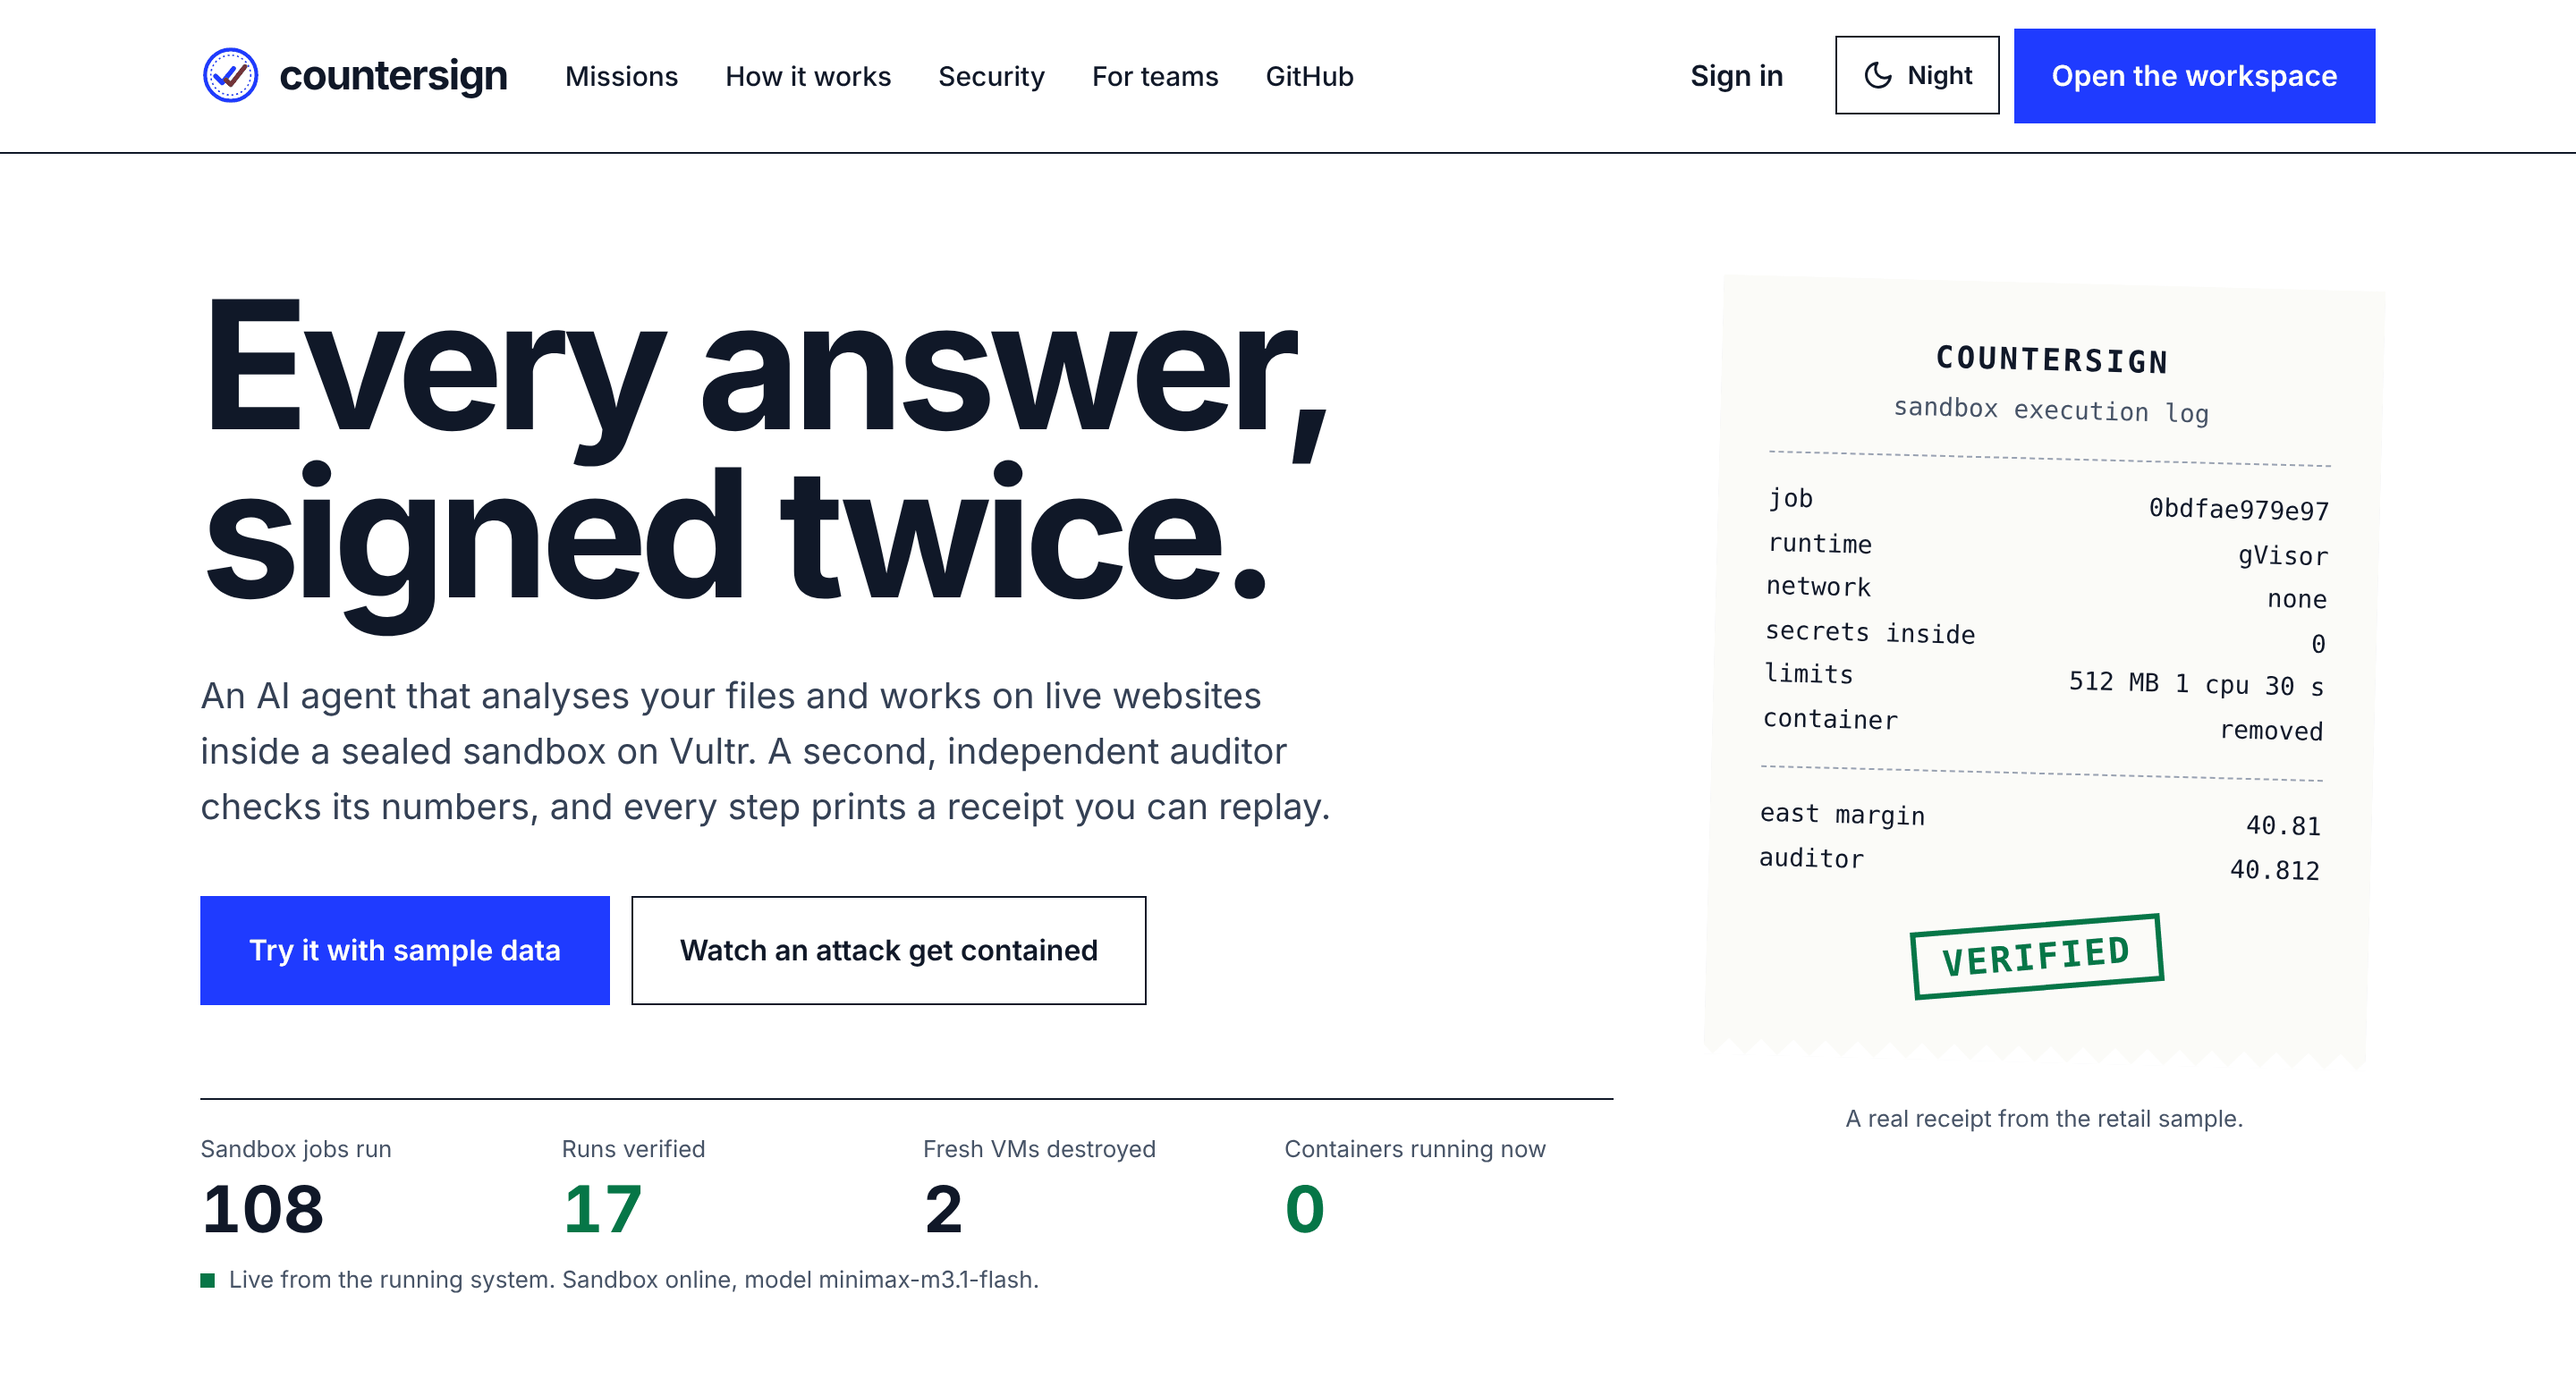
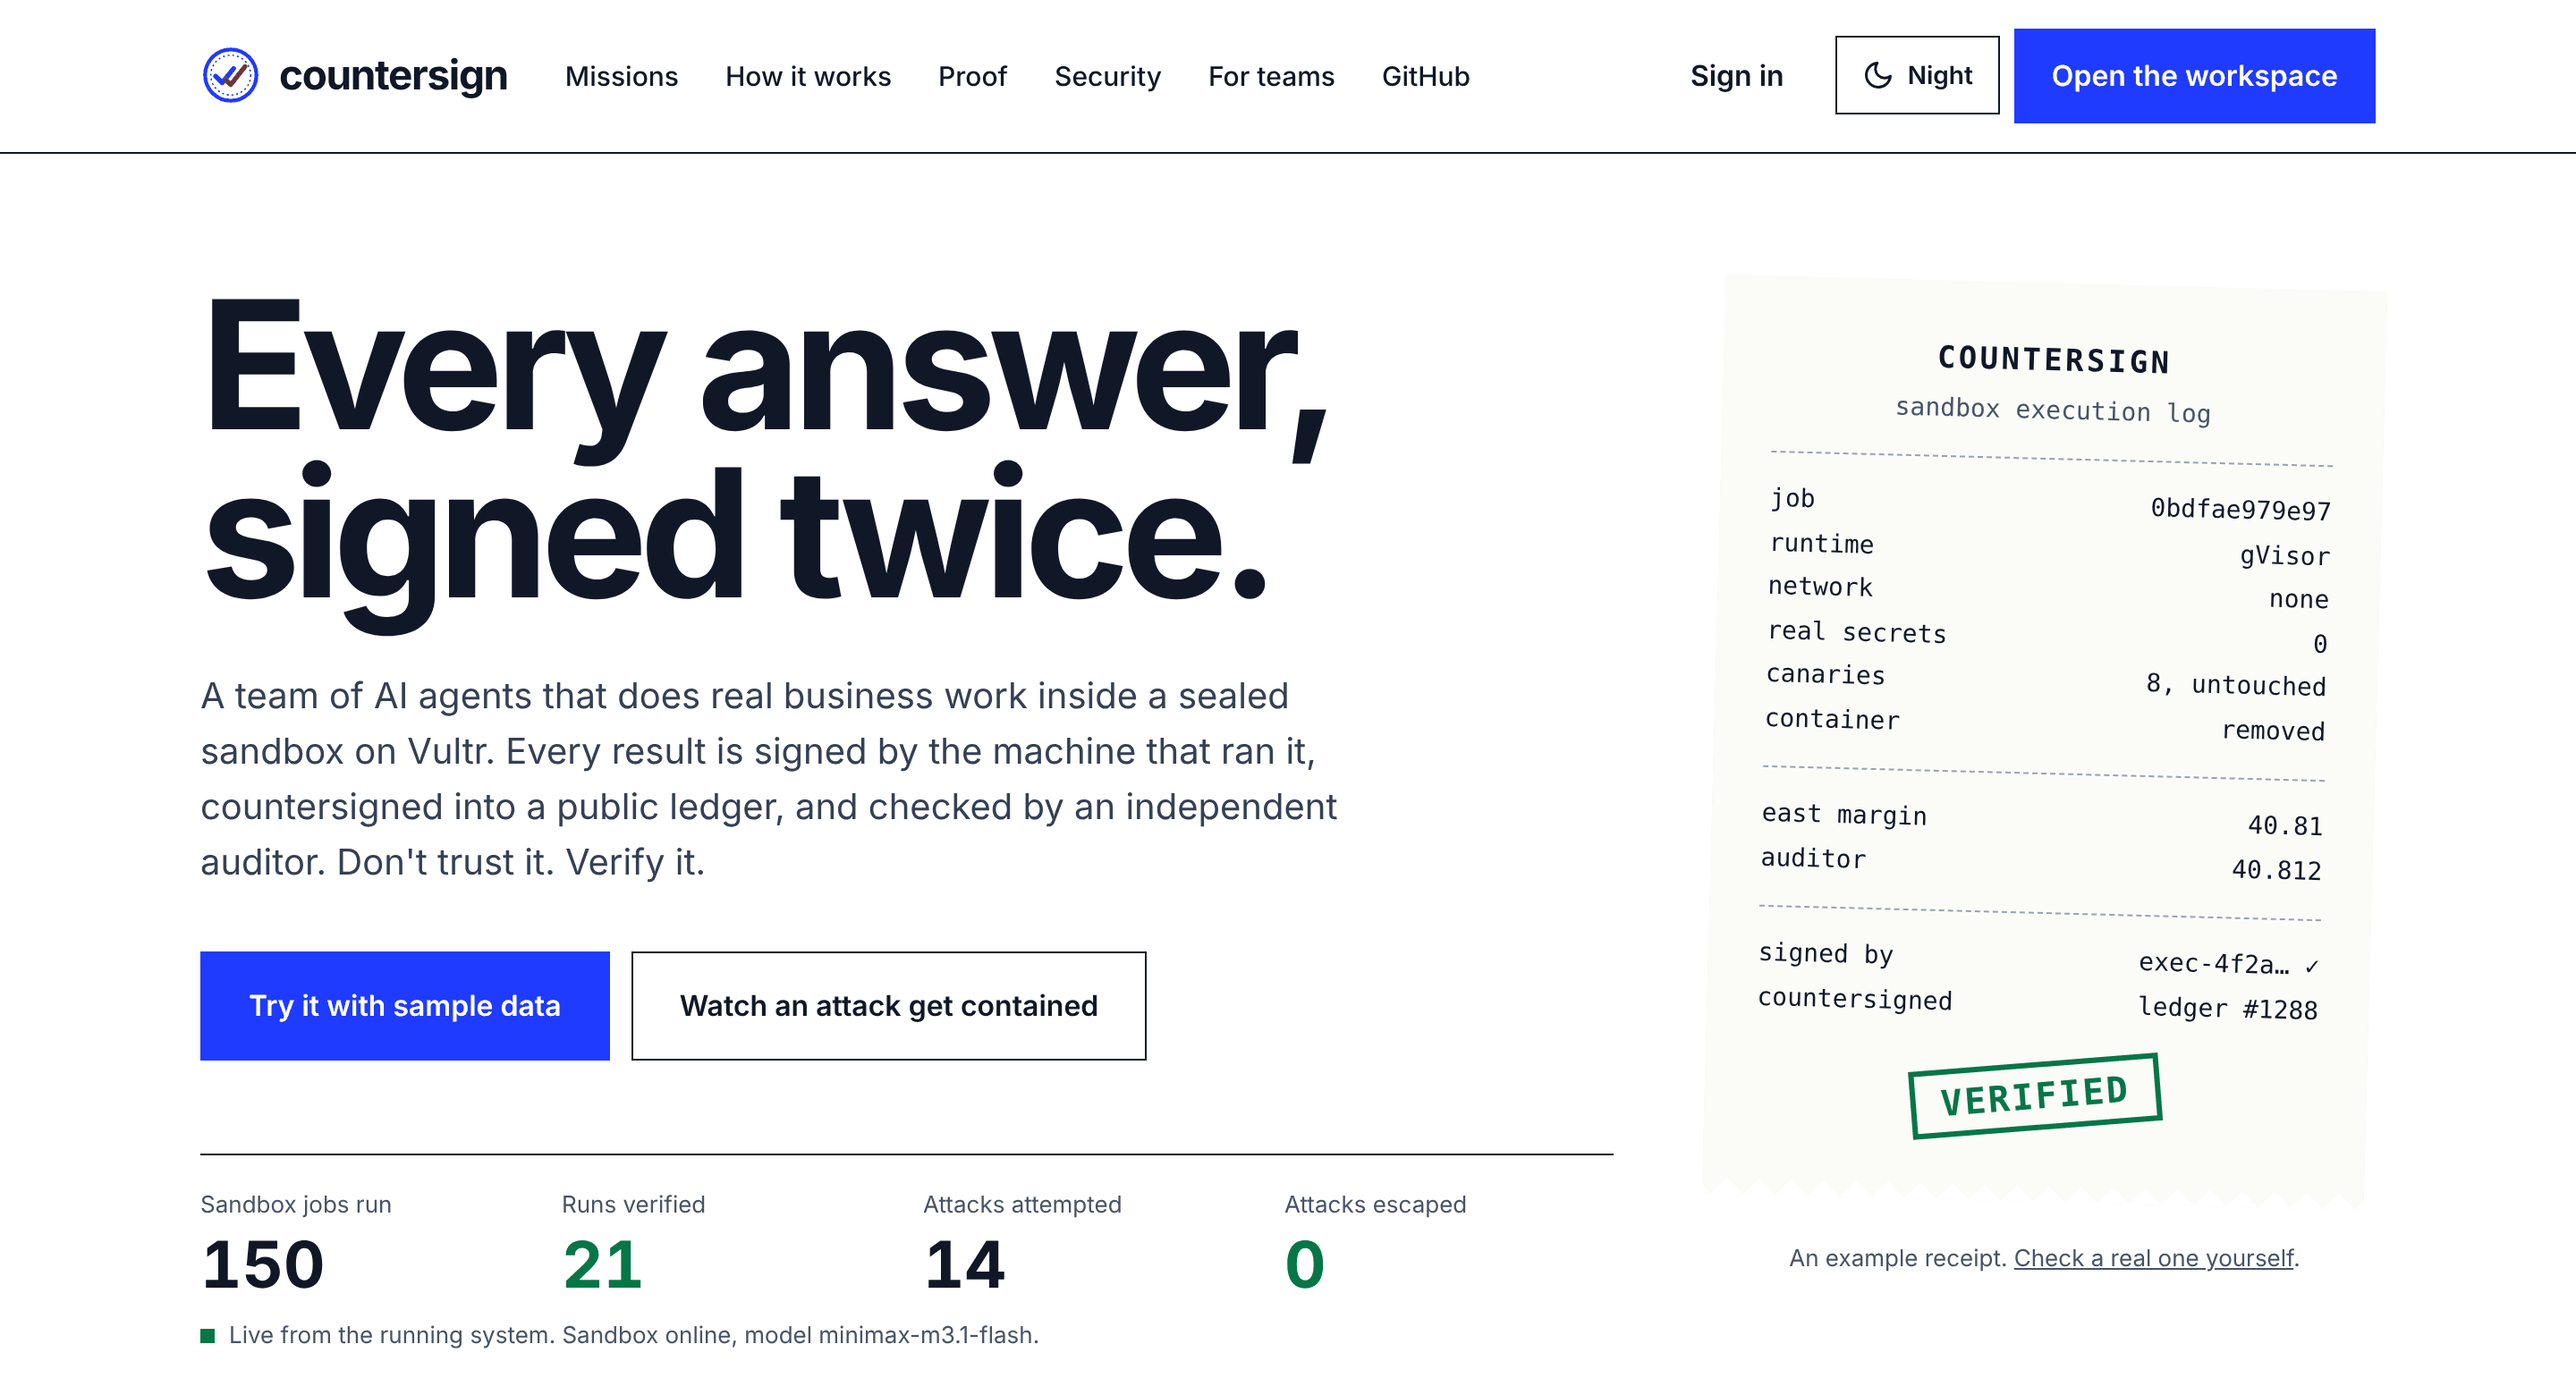
Landing: four live counters, honest caption on the example receipt; refreshed landing screenshots; document COUNTERSIGN_SIGNING_KEY
Claude-Session: https://claude.ai/code/session_01BUVDb5v1ipQLL3GPBjuW2z

diff --git a/app/static/landing.html b/app/static/landing.html
@@ -248,7 +248,6 @@
         <div><dt>Runs verified</dt><dd class="good" data-k="runs_verified">–</dd></div>
         <div><dt>Attacks attempted</dt><dd data-k="attacks_attempted">–</dd></div>
         <div><dt>Attacks escaped</dt><dd class="good" data-k="attacks_escaped">–</dd></div>
-        <div><dt>Fresh VMs destroyed</dt><dd data-k="fresh_vms">–</dd></div>
       </dl>
       <p class="live-note"><span class="dot" id="sdot"></span><span id="stext">Checking the sandbox…</span></p>
     </div>
@@ -271,7 +270,7 @@
         <div class="kv"><span>countersigned</span><span>ledger #1288</span></div>
         <div class="stampwrap"><span class="stamp">VERIFIED</span></div>
       </div>
-      <p class="receipt-cap">A receipt from the retail sample. <a href="/verify">Check any receipt yourself</a>.</p>
+      <p class="receipt-cap">An example receipt. <a href="/verify">Check a real one yourself</a>.</p>
     </div>
   </section>
 
